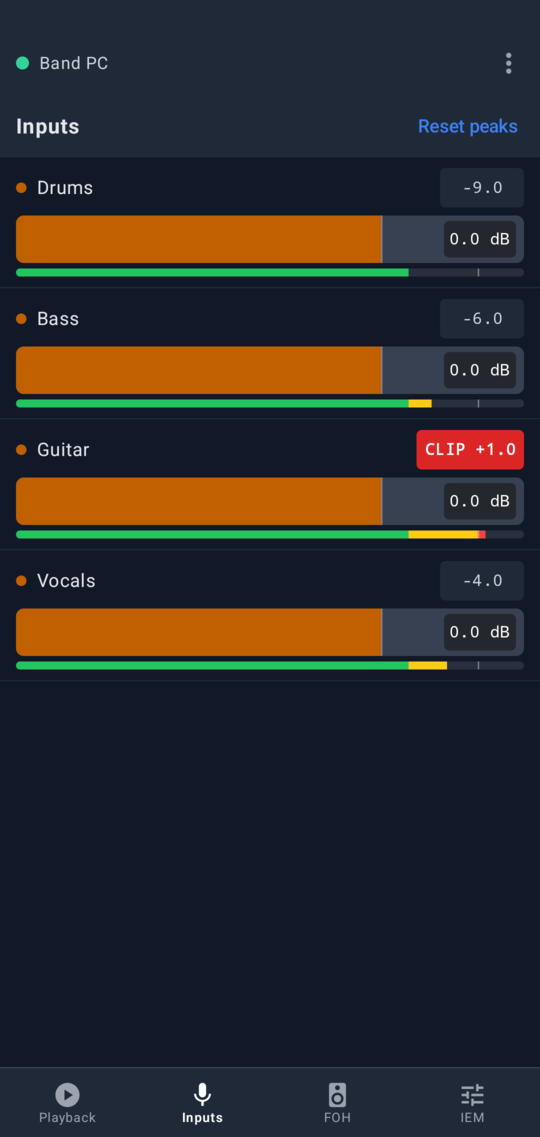
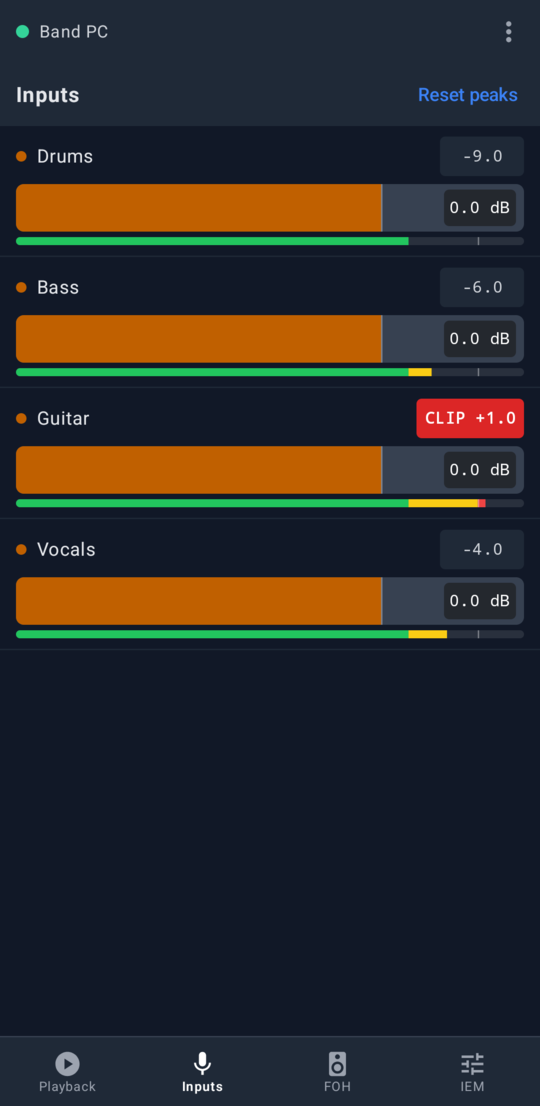
docs: screenshots without the empty status bar band
The capture only has what the app draws, so the status bar area was an empty band whose height depends on
the device (taller on the CI emulator); it is cut off like the navigation bar.

diff --git a/android/app/src/androidTest/kotlin/dev/nikarh/bandcontrol/app/ScreenshotTest.kt b/android/app/src/androidTest/kotlin/dev/nikarh/bandcontrol/app/ScreenshotTest.kt
@@ -60,16 +60,19 @@ class ScreenshotTest {
         Thread.sleep(1_500)
         compose.waitForIdle()
         val full = compose.onRoot().captureToImage().asAndroidBitmap()
-        // The navigation bar area is drawn by the system, not the app.
+        // The status and navigation bars are drawn by the system, so the app's capture would show empty bands there,
+        // of a height that depends on the device: cut them off.
+        var top = 0
         var bottom = 0
         scenario.onActivity { activity ->
-            bottom =
+            val insets =
                 ViewCompat
                     .getRootWindowInsets(activity.window.decorView)
-                    ?.getInsets(WindowInsetsCompat.Type.navigationBars())
-                    ?.bottom ?: 0
+                    ?.getInsets(WindowInsetsCompat.Type.systemBars() or WindowInsetsCompat.Type.displayCutout())
+            top = insets?.top ?: 0
+            bottom = insets?.bottom ?: 0
         }
-        val bitmap = Bitmap.createBitmap(full, 0, 0, full.width, full.height - bottom)
+        val bitmap = Bitmap.createBitmap(full, 0, top, full.width, full.height - top - bottom)
         File(out, "$name.png").outputStream().use { bitmap.compress(Bitmap.CompressFormat.PNG, 100, it) }
     }
 
